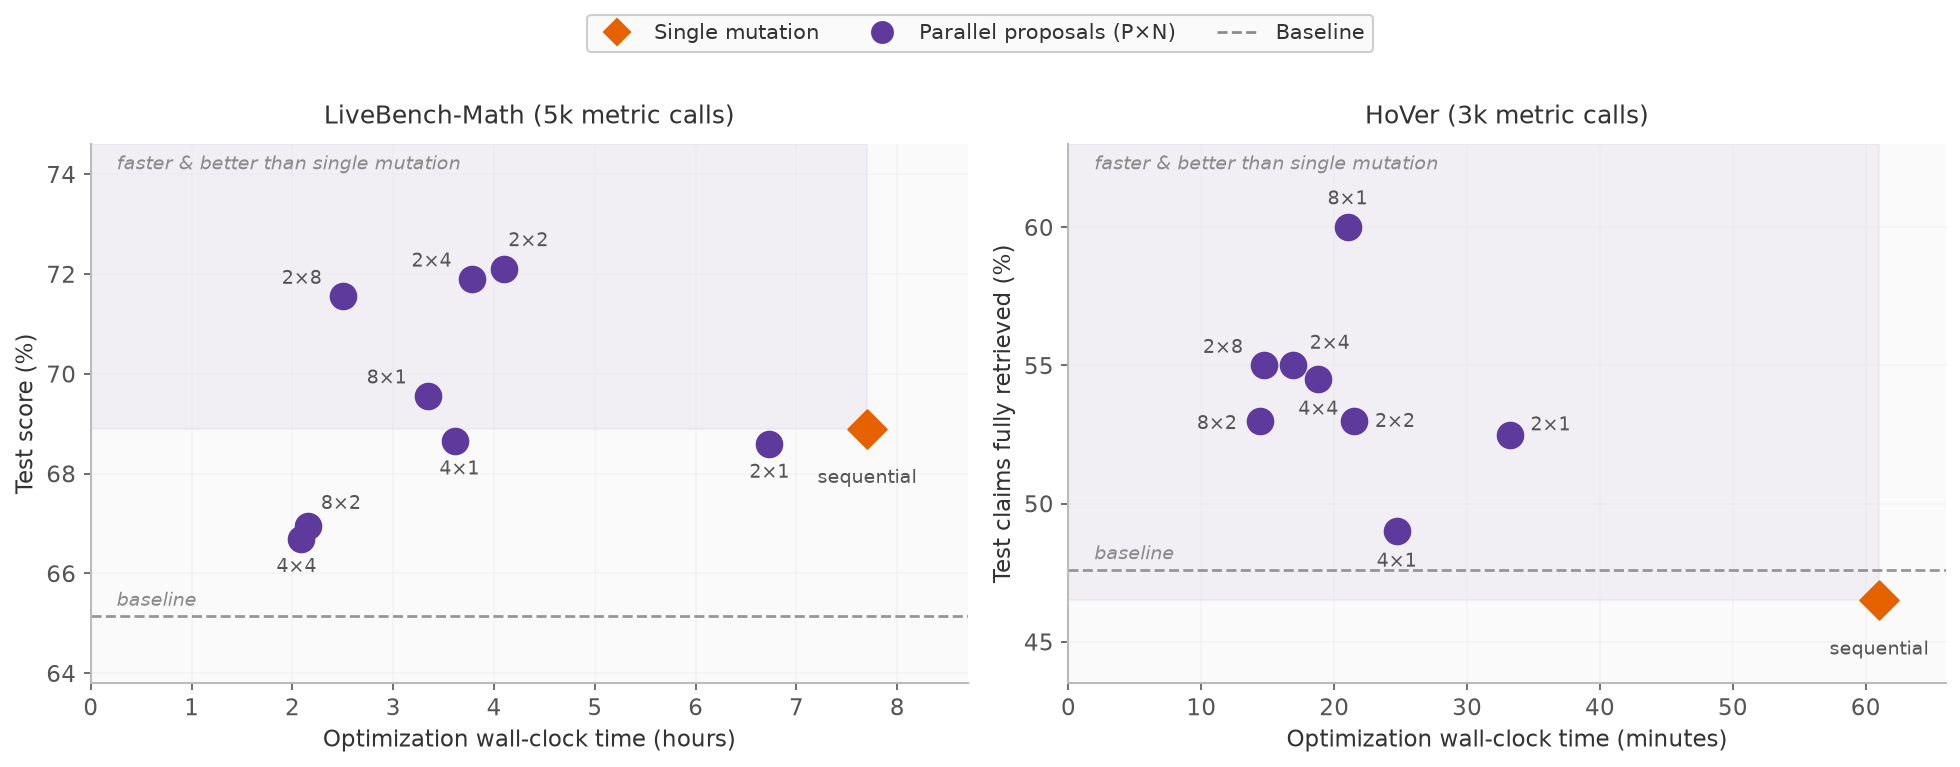
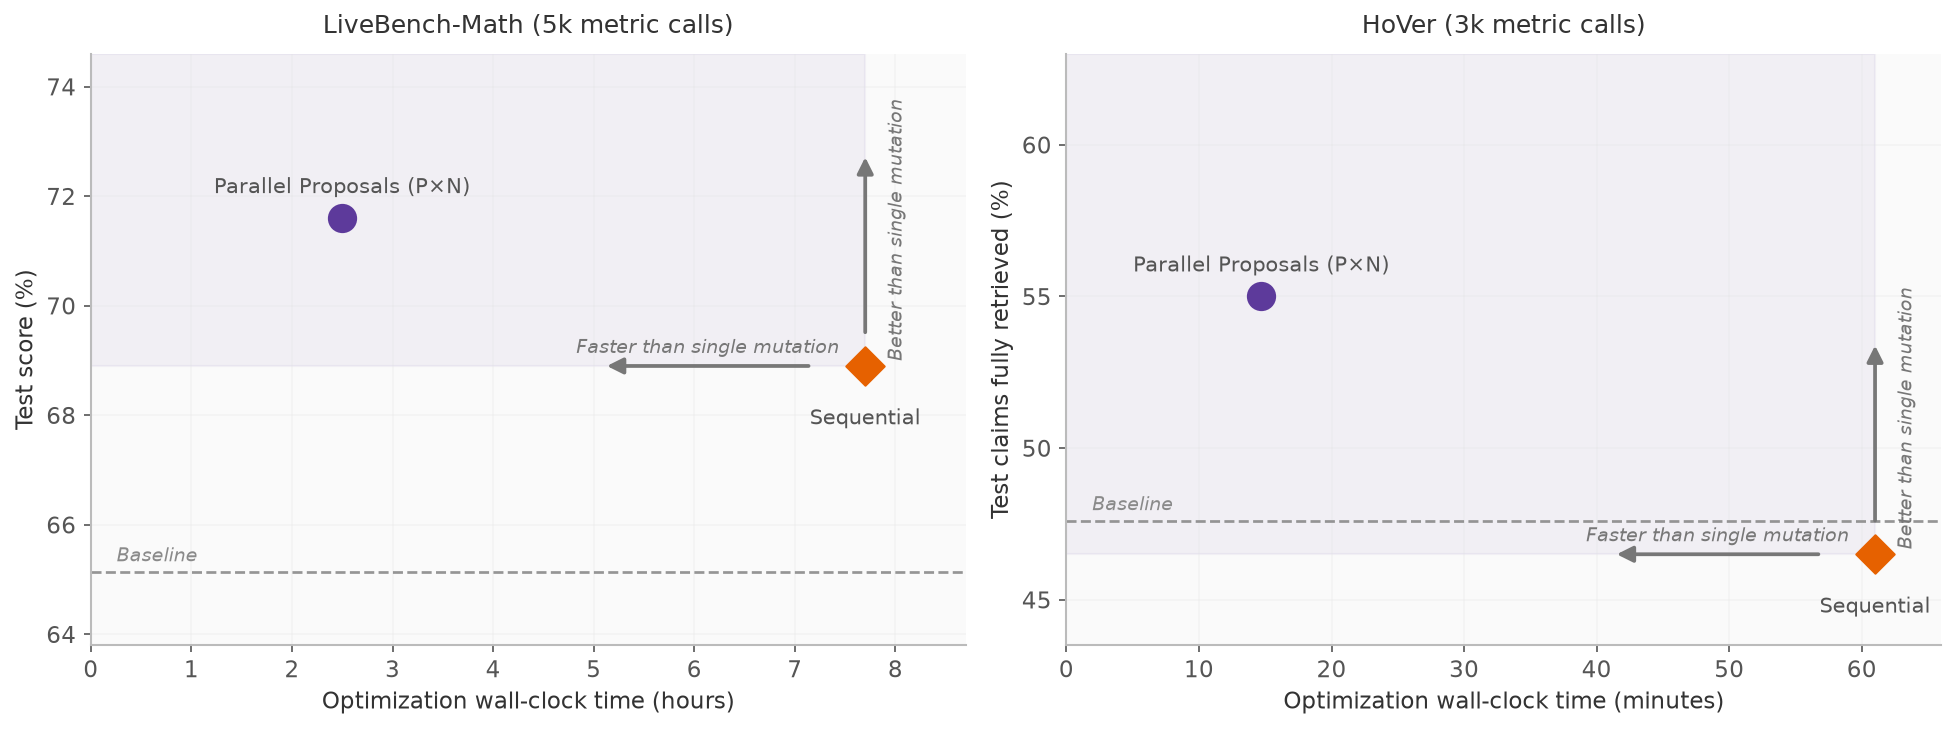
docs(blog): single-dot teaser with direction arrows, dual-axis sweep chart, verified snippet
- teaser: one unnamed parallel-proposals dot per task against the
  sequential diamond, with Better/Faster arrows and a one-line caption
- sweep chart: restore test performance and optimization time on dual
  axes with the baseline, solid lines
- getting started: drop the version pin, add a budget to the snippet;
  snippet verified end to end against latest gepa main

diff --git a/docs/docs/blog/posts/2026-06-22-parallel-proposals/index.md b/docs/docs/blog/posts/2026-06-22-parallel-proposals/index.md
@@ -26,8 +26,8 @@ citation_keywords: "text optimization, prompt optimization, program optimization
 # Batching the Optimization Loop: Parallel Proposals in GEPA
 
 <figure markdown="span">
-  ![Two scatter plots of held-out test performance against optimization wall-clock time. Purple dots mark the parallelism settings from 2×1 to 8×2, an orange diamond marks single mutation, a dashed line marks the unoptimized baseline, and a shaded region marks results that are both faster and better than single mutation. On LiveBench-Math, four of the eight settings land in the shaded region, with 2×2 at 72.1% in 4.1 hours against single mutation's 68.9% in 7.7 hours. On HoVer, every setting is both faster and better, with 8×1 at 60.0% in 21 minutes against 46.5% in 61 minutes.](images/throughput.png){ style="width: 100%;" }
-  <figcaption>Held-out test performance and optimization time for every parallelism setting (P parents × N mutations per step) under fixed metric-call budget. Batching cuts wall-clock time steeply, and several settings also score higher on test.</figcaption>
+  ![Two scatter plots of held-out test performance against optimization wall-clock time. In each, a purple dot labeled Parallel Proposals (P×N) sits above and left of an orange diamond labeled Sequential, inside a shaded region of results that are both faster and better; a dashed line marks the unoptimized baseline, and two arrows from the diamond point up (Better than single mutation) and left (Faster than single mutation). LiveBench-Math: 71.6% in 2.5 hours against 68.9% in 7.7 hours. HoVer: 55.0% in 15 minutes against 46.5% in 61 minutes.](images/throughput.png){ style="width: 100%;" }
+  <figcaption>At the same metric-call budget, parallel proposals are faster and better than single mutation.</figcaption>
 </figure>
 
 Running GEPA on a task can take hours because each optimization step waits for a proposal and its evaluation before the next step begins. The loop samples a parent, proposes a mutation, evaluates it on a mini-batch, and, if it improves on its parent, evaluates it on the full validation set.
@@ -83,8 +83,8 @@ The measured runs follow this pattern. On LiveBench-Math, moving from single mut
 Two additional effects keep the speedup from scaling indefinitely with $k$. First, the reflection wave takes as long as its slowest concurrent call. Second, validating several accepted candidates at once takes longer on a fixed worker pool. In our measured setup, wall-clock time across the sweep improved by roughly 3 to 4× over single mutation before leveling off.
 
 <figure markdown="span">
-  ![Two line charts of optimization time across the nine settings, ordered by per-step width. Time falls from 7.7 hours to about 2 on LiveBench-Math and from 61 to about 15 minutes on HoVer as width grows from 1 to 16, with smaller gains at each doubling; runtime depends on the product P·N.](images/scaling_lines.png){ style="width: 100%;" }
-  <figcaption>Optimization time for every setting at the same metric-call budget per task. Runtime depends on the product P·N, falling with diminishing returns as the width grows.</figcaption>
+  ![Two dual-axis line charts across the nine settings from single to 8×2: an orange line with held-out test performance on the left axis, a purple line with optimization time on the right axis, and a dotted baseline. Time falls from 7.7 hours to about 2 on LiveBench-Math and from 61 to 14 minutes on HoVer, while test performance ranges from 66.7 to 72.1 on LiveBench-Math and from 49.0 to 60.0 on HoVer against single mutation's 68.9 and 46.5.](images/scaling_lines.png){ style="width: 100%;" }
+  <figcaption>Held-out test performance (left axis) and optimization time (right axis) for every setting at the same metric-call budget per task. Runtime depends on the product P·N, falling with diminishing returns as the width grows, and several settings also score higher on test.</figcaption>
 </figure>
 
 ### Better final solutions with less overfitting
@@ -225,7 +225,7 @@ Parallel proposals cost slightly more than single mutation. On LiveBench-Math, i
 
 ## Getting started
 
-Parallel proposals ship in [gepa v0.1.4](https://github.com/gepa-ai/gepa/releases/tag/v0.1.4). Opt in with a simple setting change below. The sampling strategy says how many candidates to propose per step, and the selection strategy says which of the improved candidates to keep. For example, two parents with two mutations each gives four candidates per step.
+Parallel proposals are available in [gepa](https://github.com/gepa-ai/gepa). Opt in with a simple setting change below. The sampling strategy says how many candidates to propose per step, and the selection strategy says which of the improved candidates to keep. For example, two parents with two mutations each gives four candidates per step.
 
 ```python
 from gepa.optimize_anything import optimize_anything, GEPAConfig, EngineConfig, ReflectionConfig